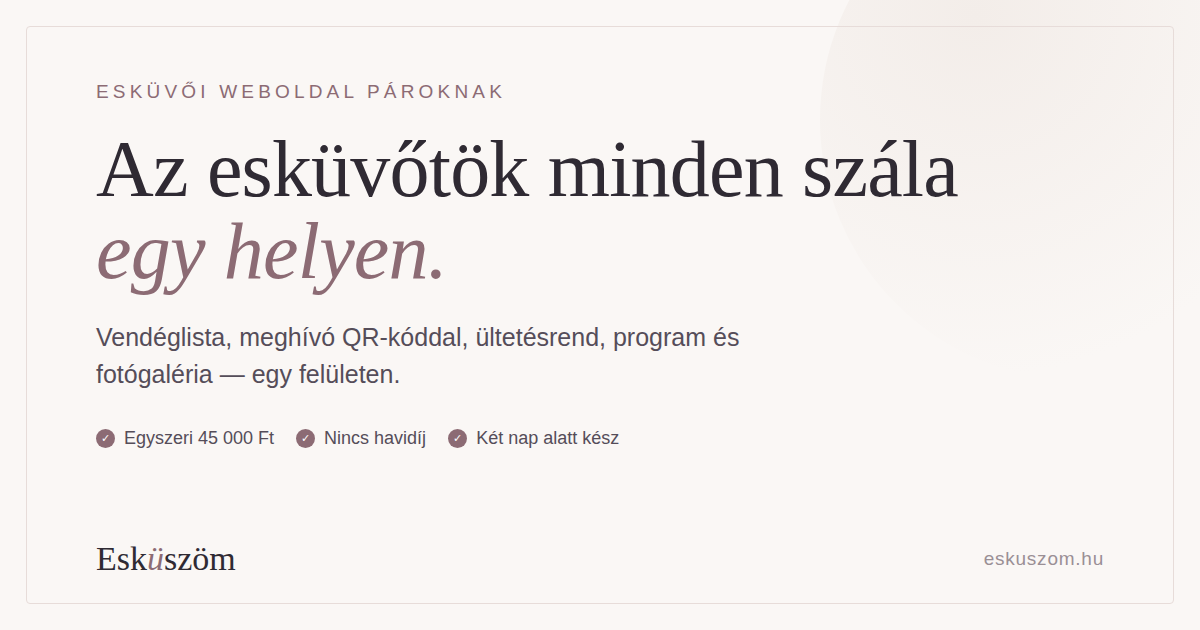
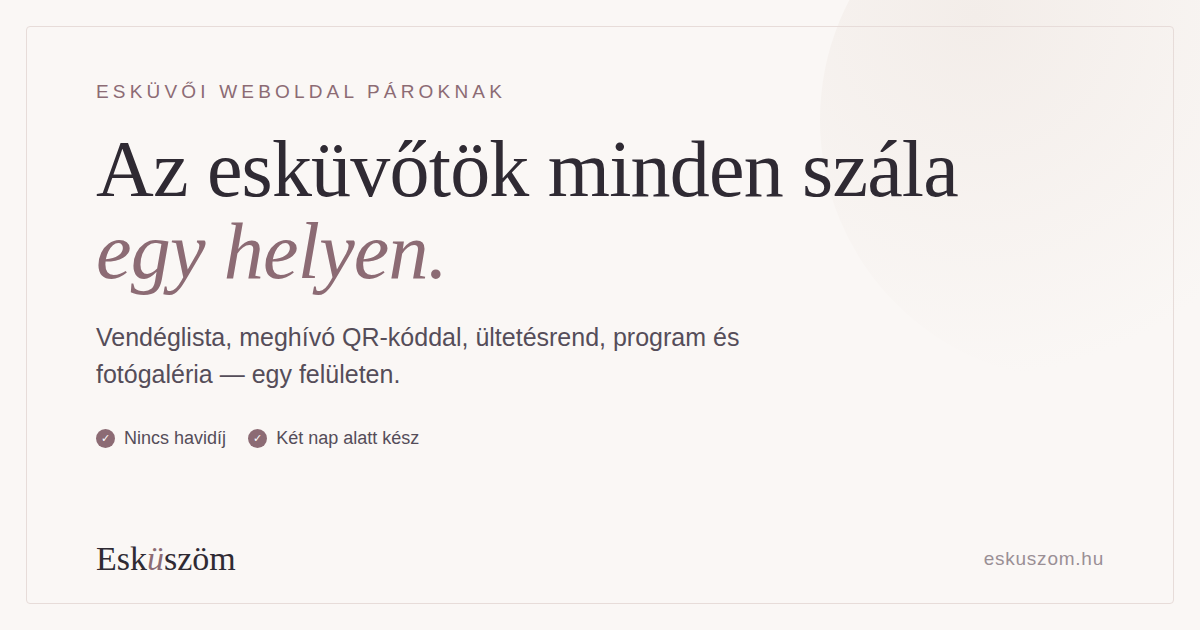
Uj og-kep, egyseges megosztasi cimkek, arak 49 990 / 6 990
- og-kep.png csere (1200x630, ar nelkul)
- minden oldalon og:image meret + twitter:card/title/description/image;
  a Function-oldalak is (functions/_kozos.js -> megosztas)
- a statikus tartalek arak: 45 000 -> 49 990, 7 990 -> 6 990
- "evi X Ft-ert" egy sorba, hogy az elo arcsere mintaja raillejen

Changed region(s): [[0.0925, 0.6635, 0.5242, 0.7238]]

diff --git a/functions/_kozos.js b/functions/_kozos.js
@@ -207,11 +207,42 @@ const STILUS = `
   .tipp .mikor { color: var(--tinta-halvany); font-size: .76rem; margin-top: .8rem; }
 `;
 
+/** A megosztási kép — minden lapon ez, hacsak egy cikknek nincs sajátja. */
+export const OG_KEP = "https://eskuszom.hu/og-kep.png";
+
+/**
+ * Megosztási címkék (Facebook, Messenger, Viber, X).
+ *
+ * Minden lapon ugyanabból a függvényből jönnek, hogy egy képcsere ne
+ * maradjon le egyik oldalról sem. A méretet csak a saját képünkhöz írjuk
+ * ki: egy cikk képének nem tudjuk a méretét, és a rossz méret rosszabb,
+ * mint a hiányzó.
+ */
+function megosztas({ tipus = "website", cim, leiras, kep, url }) {
+  const sajat = !kep || kep === OG_KEP;
+  const k = kep || OG_KEP;
+  return `<meta property="og:type" content="${ki(tipus)}">
+<meta property="og:site_name" content="Esküszöm">
+<meta property="og:locale" content="hu_HU">
+<meta property="og:url" content="${ki(url)}">
+<meta property="og:title" content="${ki(cim)}">
+${leiras ? `<meta property="og:description" content="${ki(leiras)}">\n` : ""}<meta property="og:image" content="${ki(k)}">
+${sajat ? `<meta property="og:image:width" content="1200">
+<meta property="og:image:height" content="630">
+<meta property="og:image:alt" content="Esküszöm — esküvői weboldal pároknak: vendéglista, QR-kódos meghívó, ültetésrend">
+` : ""}<meta name="twitter:card" content="summary_large_image">
+<meta name="twitter:title" content="${ki(cim)}">
+${leiras ? `<meta name="twitter:description" content="${ki(leiras)}">\n` : ""}<meta name="twitter:image" content="${ki(k)}">`;
+}
+
 /**
  * A teljes oldal köré ugyanaz a keret, mint a hirdető oldalon: azonos
  * fejléc, betűk és lábléc, hogy ne érződjön külön világnak.
+ *
+ * Az `og` a megosztási címkéket írja felül (pl. egy cikk saját címe és
+ * képe); ha nincs megadva, a lap címe és leírása megy ki.
  */
-export function oldal({ cim, leiras, fejlecek, tartalom, url, robots }) {
+export function oldal({ cim, leiras, fejlecek, tartalom, url, robots, og }) {
   return `<!doctype html>
 <html lang="hu">
 <head>
@@ -224,9 +255,7 @@ export function oldal({ cim, leiras, fejlecek, tartalom, url, robots }) {
 <!-- A megrendelés és a hibaoldalak felülírják: két robots-címke egy lapon
      zavaros, ezért itt csak egy van, és az oldal mondja meg, mi legyen. -->
 <meta name="robots" content="${ki(robots || "index, follow, max-snippet:-1, max-image-preview:large")}">
-<meta property="og:site_name" content="Esküszöm">
-<meta property="og:locale" content="hu_HU">
-<meta property="og:url" content="${ki(url)}">
+${megosztas({ cim, leiras, url, ...(og ?? {}) })}
 <link rel="stylesheet" href="/betuk/betuk.css">
 <link rel="icon" href="/favicon.svg" type="image/svg+xml">
 <link rel="stylesheet" href="/stilus.css?v=20260921b">

diff --git a/index.html b/index.html
@@ -4,7 +4,7 @@
 <meta charset="utf-8">
 <meta name="viewport" content="width=device-width, initial-scale=1">
 <title>Esküvői weboldal pároknak – vendéglista, ültetésrend | Esküszöm</title>
-<meta name="description" content="Esküvői weboldal, ahol a vendéglista, a QR-kódos meghívó, az ültetésrend, a program és a fotógaléria egy helyen van. Egyszeri 45 000 Ft, havidíj nélkül, két nap alatt kész.">
+<meta name="description" content="Esküvői weboldal, ahol a vendéglista, a QR-kódos meghívó, az ültetésrend, a program és a fotógaléria egy helyen van. Egyszeri 49 990 Ft, havidíj nélkül, két nap alatt kész.">
 <meta name="theme-color" content="#8c6b74">
 
 <meta property="og:type" content="website">
@@ -128,7 +128,7 @@
       ],
       "offers": {
         "@type": "Offer",
-        "price": "45000",
+        "price": "49990",
         "priceCurrency": "HUF",
         "availability": "https://schema.org/InStock",
         "url": "https://eskuszom.hu/#ar",
@@ -635,7 +635,7 @@
 
     <div class="ar-doboz uszo">
       <div class="folcim" style="margin-bottom:.4rem">Teljes csomag</div>
-      <div class="ar-szam">45 000 <small>Ft</small></div>
+      <div class="ar-szam">49 990 <small>Ft</small></div>
       <p class="ar-alcim">
         Egyszeri díj, az esküvő után még 90 napig a tiétek.<br>
         Nem kell előfizetni, és nincs vendégszám-korlát.
@@ -659,7 +659,7 @@
       <div class="ar-extra">
         <strong style="color:var(--tinta-lagy)">Amit külön lehet kérni:</strong>
         saját domain (pl. <em>zsofiesmarci.hu</em>) a domain árán ·
-        meghosszabbítás az esküvő után, hogy az oldal, a képek és az üzenetek megmaradjanak — 7 990 Ft/év
+        meghosszabbítás az esküvő után, hogy az oldal, a képek és az üzenetek megmaradjanak — 6 990 Ft/év
       </div>
     </div>
 
@@ -713,7 +713,7 @@
       </p>
       <div class="fizetes-gomb">
         <a href="/megrendeles/" class="gomb gomb-fo">Megrendelem</a>
-        <span class="fizetes-halk">Egyszeri 45 000 Ft · nincs havidíj · két nap alatt kész</span>
+        <span class="fizetes-halk">Egyszeri 49 990 Ft · nincs havidíj · két nap alatt kész</span>
       </div>
     </div>
   
@@ -771,8 +771,8 @@
         <summary>Meddig a miénk az oldal?</summary>
         <p>
           Az esküvő után még 90 napig. Előtte e-mailben szólunk: ha meg
-          szeretnétek tartani a képekkel és a vendégek üzeneteivel, azt évi
-          7 990 Ft-ért lehet kérni. Nem kötelező, és nem újul meg magától.
+          szeretnétek tartani a képekkel és a vendégek üzeneteivel, azt
+          évi 6 990 Ft-ért lehet kérni. Nem kötelező, és nem újul meg magától.
         </p>
       </details>
 

diff --git a/functions/tippek/[[ut]].js b/functions/tippek/[[ut]].js
@@ -77,10 +77,8 @@ function listaOldal(cikkek) {
     leiras: "Gyakorlati tippek esküvőszervezéshez: vendéglista, meghívó, "
           + "ültetésrend, program és időzítés — abból, amit valódi esküvőkön láttunk.",
     url: "https://eskuszom.hu/tippek/",
-    fejlecek: `<meta property="og:type" content="website">
-<meta property="og:title" content="Esküvőszervezési tippek — Esküszöm">
-<meta property="og:image" content="https://eskuszom.hu/og-kep.png">
-<script type="application/ld+json">${JSON.stringify({
+    og: { cim: "Esküvőszervezési tippek — Esküszöm" },
+    fejlecek: `<script type="application/ld+json">${JSON.stringify({
       "@context": "https://schema.org",
       "@type": "Blog",
       "@id": "https://eskuszom.hu/tippek/#blog",
@@ -139,11 +137,11 @@ function cikkOldal(c, torzs) {
     cim: `${c.title} | Esküszöm`,
     leiras: c.lead || `${c.title} — esküvőszervezési tipp az Esküszömtől.`,
     url,
-    fejlecek: `<meta property="og:type" content="article">
-<meta property="og:title" content="${ki(c.title)}">
-${c.lead ? `<meta property="og:description" content="${ki(c.lead)}">` : ""}
-<meta property="og:image" content="${ki(c.kep || "https://eskuszom.hu/og-kep.png")}">
-<script type="application/ld+json">${JSON.stringify({
+    og: {
+      tipus: "article", cim: c.title, kep: c.kep || undefined,
+      ...(c.lead ? { leiras: c.lead } : {}),
+    },
+    fejlecek: `<script type="application/ld+json">${JSON.stringify({
       "@context": "https://schema.org",
       "@type": "BlogPosting",
       headline: c.title,

diff --git a/kerdesek/index.html b/kerdesek/index.html
@@ -16,6 +16,13 @@
 <meta property="og:url" content="https://eskuszom.hu/kerdesek/">
 <meta property="og:locale" content="hu_HU">
 <meta property="og:image" content="https://eskuszom.hu/og-kep.png">
+<meta property="og:image:width" content="1200">
+<meta property="og:image:height" content="630">
+<meta property="og:image:alt" content="Esküszöm — esküvői weboldal pároknak: vendéglista, QR-kódos meghívó, ültetésrend">
+<meta name="twitter:card" content="summary_large_image">
+<meta name="twitter:title" content="Gyakori kérdések az Esküszömről – pároktól, őszintén">
+<meta name="twitter:description" content="Mi van, ha nem értünk a számítógéphez? Meddig a miénk az oldal? Kell saját domain? A szolgáltatóink is használhatják? Itt a válasz mindre.">
+<meta name="twitter:image" content="https://eskuszom.hu/og-kep.png">
 
 <link rel="stylesheet" href="/betuk/betuk.css">
 <link rel="icon" href="/favicon.svg" type="image/svg+xml">
@@ -81,8 +88,8 @@
         <summary>Meddig a miénk az oldal?</summary>
         <p>
           Az esküvő után még 90 napig. Előtte e-mailben szólunk: ha meg
-          szeretnétek tartani a képekkel és a vendégek üzeneteivel, azt évi
-          7 990 Ft-ért lehet kérni. Nem kötelező, és nem újul meg magától.
+          szeretnétek tartani a képekkel és a vendégek üzeneteivel, azt
+          évi 6 990 Ft-ért lehet kérni. Nem kötelező, és nem újul meg magától.
         </p>
       </details>
 

diff --git a/mit-tud/index.html b/mit-tud/index.html
@@ -16,6 +16,13 @@
 <meta property="og:url" content="https://eskuszom.hu/mit-tud/">
 <meta property="og:locale" content="hu_HU">
 <meta property="og:image" content="https://eskuszom.hu/og-kep.png">
+<meta property="og:image:width" content="1200">
+<meta property="og:image:height" content="630">
+<meta property="og:image:alt" content="Esküszöm — esküvői weboldal pároknak: vendéglista, QR-kódos meghívó, ültetésrend">
+<meta name="twitter:card" content="summary_large_image">
+<meta name="twitter:title" content="Mit tud az Esküszöm – vendéglista, meghívó, ültetésrend">
+<meta name="twitter:description" content="Vendéglista, QR-kódos meghívó, visszajelzés és menürendelés, ültetésrend és teremterv, program, szolgáltatói hozzáférés, nyomdakész kártyák és fotógaléria — egy felületen.">
+<meta name="twitter:image" content="https://eskuszom.hu/og-kep.png">
 
 <link rel="stylesheet" href="/betuk/betuk.css">
 <link rel="icon" href="/favicon.svg" type="image/svg+xml">

diff --git a/a-vendegeknek/index.html b/a-vendegeknek/index.html
@@ -16,6 +16,13 @@
 <meta property="og:url" content="https://eskuszom.hu/a-vendegeknek/">
 <meta property="og:locale" content="hu_HU">
 <meta property="og:image" content="https://eskuszom.hu/og-kep.png">
+<meta property="og:image:width" content="1200">
+<meta property="og:image:height" content="630">
+<meta property="og:image:alt" content="Esküszöm — esküvői weboldal pároknak: vendéglista, QR-kódos meghívó, ültetésrend">
+<meta name="twitter:card" content="summary_large_image">
+<meta name="twitter:title" content="A vendégeiteknek – személyre szóló esküvői oldal QR-kóddal">
+<meta name="twitter:description" content="Minden vendég a saját adatait látja: hol ül, mikor mi lesz, mit rendelt. Egy QR-kód a meghívón, és nem kell kérdezősködnie senkinek.">
+<meta name="twitter:image" content="https://eskuszom.hu/og-kep.png">
 
 <link rel="stylesheet" href="/betuk/betuk.css">
 <link rel="icon" href="/favicon.svg" type="image/svg+xml">

diff --git a/impresszum/index.html b/impresszum/index.html
@@ -16,6 +16,13 @@
 <meta property="og:url" content="https://eskuszom.hu/impresszum/">
 <meta property="og:locale" content="hu_HU">
 <meta property="og:image" content="https://eskuszom.hu/og-kep.png">
+<meta property="og:image:width" content="1200">
+<meta property="og:image:height" content="630">
+<meta property="og:image:alt" content="Esküszöm — esküvői weboldal pároknak: vendéglista, QR-kódos meghívó, ültetésrend">
+<meta name="twitter:card" content="summary_large_image">
+<meta name="twitter:title" content="Impresszum – Esküszöm">
+<meta name="twitter:description" content="Az Esküszöm üzemeltetője: Maczkó Márk egyéni vállalkozó, 9700 Szombathely, Fadrusz János utca 34/B. Adószám: 92073018-1-38. Elérhetőség: +36 20 408 7765, info@mmdigital.hu.">
+<meta name="twitter:image" content="https://eskuszom.hu/og-kep.png">
 
 <link rel="stylesheet" href="/betuk/betuk.css">
 <link rel="icon" href="/favicon.svg" type="image/svg+xml">

diff --git a/hogyan-megy/index.html b/hogyan-megy/index.html
@@ -16,6 +16,13 @@
 <meta property="og:url" content="https://eskuszom.hu/hogyan-megy/">
 <meta property="og:locale" content="hu_HU">
 <meta property="og:image" content="https://eskuszom.hu/og-kep.png">
+<meta property="og:image:width" content="1200">
+<meta property="og:image:height" content="630">
+<meta property="og:image:alt" content="Esküszöm — esküvői weboldal pároknak: vendéglista, QR-kódos meghívó, ültetésrend">
+<meta name="twitter:card" content="summary_large_image">
+<meta name="twitter:title" content="Hogyan megy – négy lépés az esküvői weboldalig | Esküszöm">
+<meta name="twitter:description" content="Beszélgetés, elindítjuk, ti feltöltitek, mi pedig végig ott vagyunk. Két nap alatt kész, és utána sem maradtok magatokra.">
+<meta name="twitter:image" content="https://eskuszom.hu/og-kep.png">
 
 <link rel="stylesheet" href="/betuk/betuk.css">
 <link rel="icon" href="/favicon.svg" type="image/svg+xml">

diff --git a/aszf/index.html b/aszf/index.html
@@ -16,6 +16,13 @@
 <meta property="og:url" content="https://eskuszom.hu/aszf/">
 <meta property="og:locale" content="hu_HU">
 <meta property="og:image" content="https://eskuszom.hu/og-kep.png">
+<meta property="og:image:width" content="1200">
+<meta property="og:image:height" content="630">
+<meta property="og:image:alt" content="Esküszöm — esküvői weboldal pároknak: vendéglista, QR-kódos meghívó, ültetésrend">
+<meta name="twitter:card" content="summary_large_image">
+<meta name="twitter:title" content="Általános szerződési feltételek – Esküszöm">
+<meta name="twitter:description" content="Mit kaptok, mennyiért és meddig: egyszeri díj, az oldal az esküvő után 90 napig él, utána éves díjért megtartható.">
+<meta name="twitter:image" content="https://eskuszom.hu/og-kep.png">
 
 <link rel="stylesheet" href="/betuk/betuk.css">
 <link rel="icon" href="/favicon.svg" type="image/svg+xml">

diff --git a/adatkezeles/index.html b/adatkezeles/index.html
@@ -16,6 +16,13 @@
 <meta property="og:url" content="https://eskuszom.hu/adatkezeles/">
 <meta property="og:locale" content="hu_HU">
 <meta property="og:image" content="https://eskuszom.hu/og-kep.png">
+<meta property="og:image:width" content="1200">
+<meta property="og:image:height" content="630">
+<meta property="og:image:alt" content="Esküszöm — esküvői weboldal pároknak: vendéglista, QR-kódos meghívó, ültetésrend">
+<meta name="twitter:card" content="summary_large_image">
+<meta name="twitter:title" content="Adatkezelési tájékoztató – Esküszöm">
+<meta name="twitter:description" content="Milyen adatot kezelünk, miért és meddig — a megkereséstől a vendéglistán át a sütikig, közérthetően.">
+<meta name="twitter:image" content="https://eskuszom.hu/og-kep.png">
 
 <link rel="stylesheet" href="/betuk/betuk.css">
 <link rel="icon" href="/favicon.svg" type="image/svg+xml">
